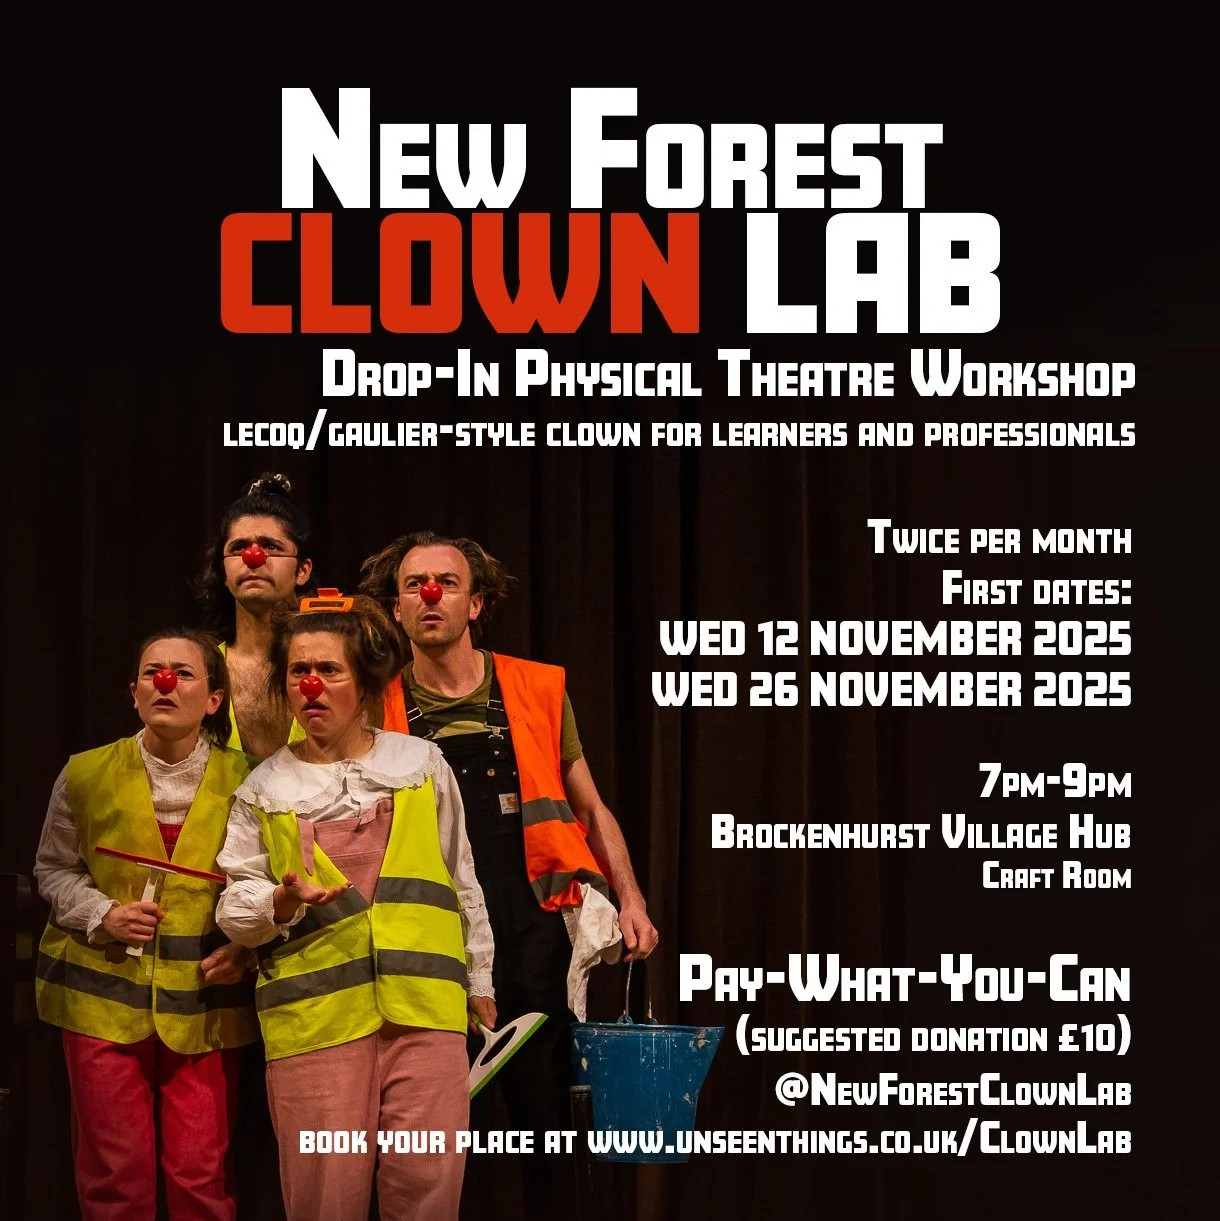
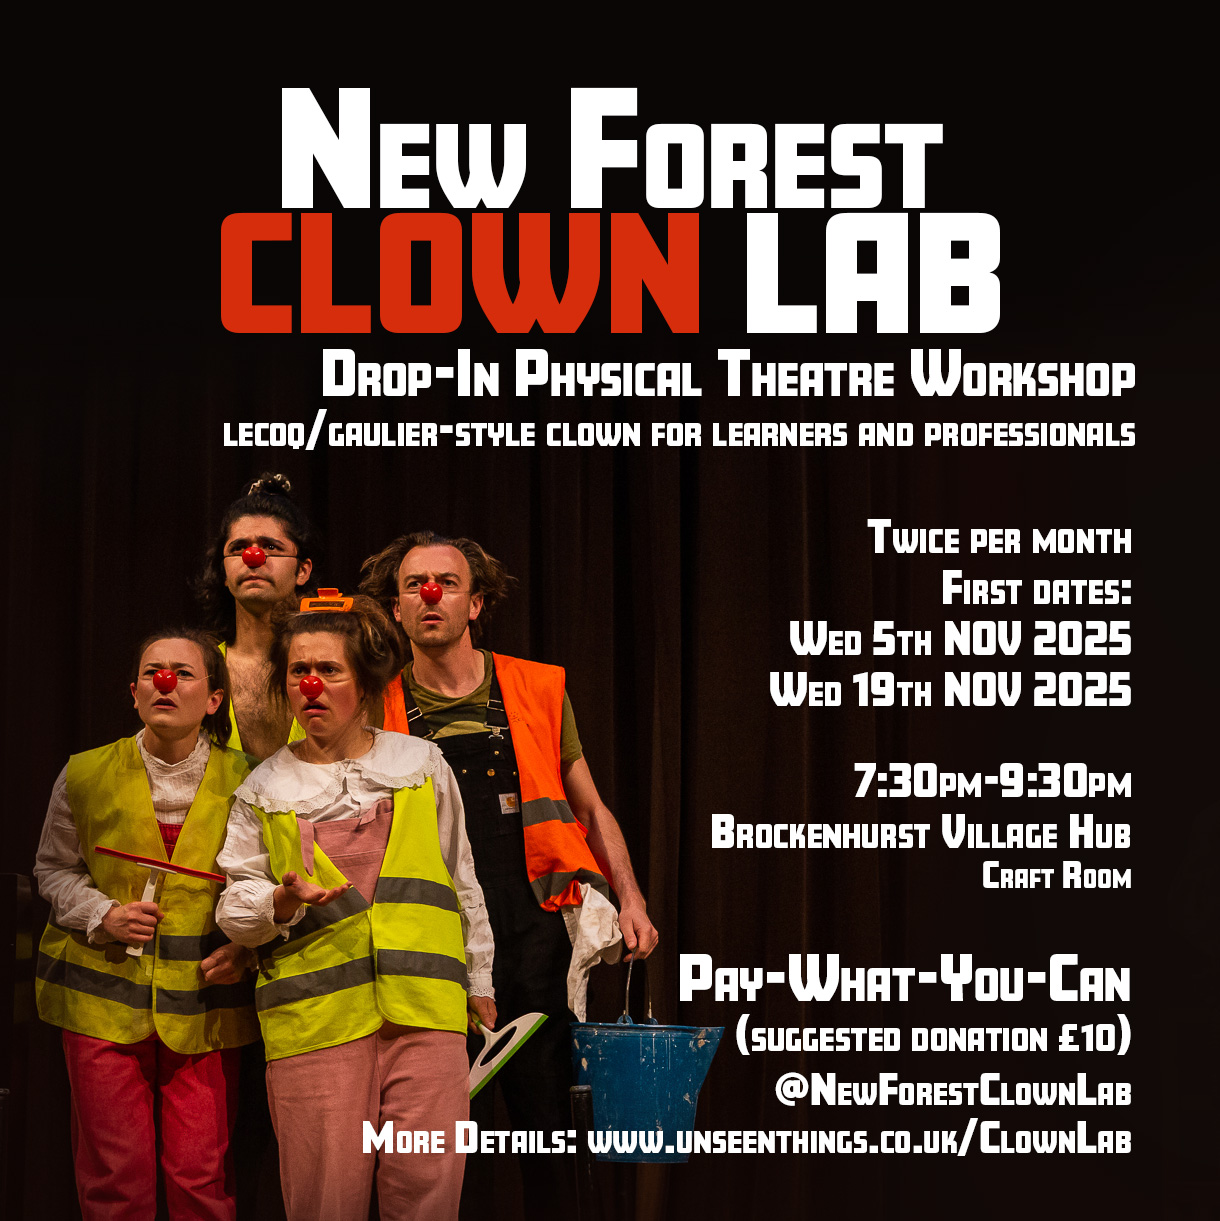
Update layout and content with images and styles

diff --git a/_site/clownlab/index.html b/_site/clownlab/index.html
@@ -55,8 +55,50 @@
     <main>
       
 <h1>New Forest Clown Lab</h1>
-<p>Starting in November 2025, I will be leading an explorative Clown workshop using exercises in the tradition of Lecoq and Gaullier for both beginners and professionals in Brockenhurst in the New Forest. It's a drop in class, pay-what-you-can, held every two weeks. Just come along and see what you think!</p>
 
+<p><strong>Starting in November 2025</strong>, I’ll be leading a fortnightly Clown workshop in Brockenhurst, New Forest, open to both beginners and professionals. These are drop-in classes rooted in the traditions of Lecoq and Gaulier.  It can be exhilirating, it can be stupid, it can be frightening, but regardless of your background and experience it will be fun and useful.</p>
+
+<p><strong>It’s pay-what-you-can</strong> (suggested donation £10), held every two weeks at the Brockenhurst Village Hub  — a five-minute walk from the station, with easy trains from Bournemouth and Southampton, and plenty of parking.</p>
+
+<h3>What to Expect</h3>
+
+<p>Whether you’re brand new to this style or a world famous superstar clown, these workshops are a place to hone your instincts, refine your timing, and find what works on stage.</p>
+
+<p>We’ll explore games and exercises, some all together, some in smaller groups or solo. We'll be moving around a lot so wear clothes you can move in. Red noses are sometimes required, sometimes not - I'll provide some, but feel free to bring your own.</p>
+
+<h2>Who's Leading It?</h2>
+
+<p>The sessions are led by me, James Carney, a Lecoq-trained performer and theatre-maker with years of experience in clown, mask, and physical theatre.</p>
+
+<h2>Location</h2>
+
+<p><strong>Brockenhurst Village Hub (Craft Room)</strong></p>
+<p>Highwood Road, Brockenhurst, Hampshire, SO42 7RY</p>
+
+<div style="margin-bottom: 2em">
+  <iframe 
+    src="https://www.google.com/maps/embed?pb=!1m18!1m12!1m3!1d2572.3496202895823!2d-1.5738622!3d50.8214207!2m3!1f0!2f0!3f0!3m2!1i1024!2i768!4f13.1!3m3!1m2!1s0x4873e9f2ac1d5fcd%3A0xd9053ae3aa00b3f6!2sBrockenhurst%20Village%20Hall!5e0!3m2!1sen!2suk!4v1695993082135!5m2!1sen!2suk" 
+    width="100%" 
+    height="300" 
+    style="border:0;" 
+    allowfullscreen="" 
+    loading="lazy" 
+    referrerpolicy="no-referrer-when-downgrade">
+  </iframe>
+</div>
+
+<h2>Upcoming Dates</h2>
+
+<ul>
+  <li>Wednesday 5th November 2025 – 7:30pm–9:30pm</li>
+  <li>Wednesday 19th November 2025 – 7:30pm–9:30pm</li>
+  <li>Wednesday 3th December 2025 – 7:30pm–9:30pm</li>
+  <li>Wednesday 17th December 2025 – 7:30pm–9:30pm</li>
+</ul>
+
+<h2>How to Join</h2>
+
+<p>No need to book—just turn up. If you'd like to get in touch or ask a question, message <a href="https://instagram.com/NewForestClownLab" target="_blank">@NewForestClownLab on Instagram</a> or <a href="mailto:youremail@example.com">drop me an email</a>.</p>
 <img src="/images/Nov2025Flyer.jpg" alt="Flyer" class="project-bigimage">
 
     </main>

diff --git a/_site/css/styles.css b/_site/css/styles.css
@@ -13,6 +13,11 @@ body {
   padding: 0;
 }
 
+body.clownlab {
+  font-family: "Amboy", sans-serif;  /* assuming Amboy is loaded via Typekit or similar */
+}
+
+
 .content-wrapper {
   max-width: 800px;
   margin: 0 auto;
@@ -473,5 +478,30 @@ h3 {
 
 .simple-card p {
   font-size: 0.95rem;
+}
+
+/* Links inside body text */
+.content-wrapper a {
+  color: #dab400;          /* mustard yellow (or another accent) */
+  text-decoration: underline;
+  font-weight: 500;
+}
+
+.content-wrapper a:hover {
+  color: #fff;             /* or lighten to make hover obvious */
+  text-decoration: none;
+}
+
+.clownlab ul {
+  list-style: none;
+  padding: 0;
+}
+
+.clownlab ul li {
+  background: #111;
+  margin: 0.5em 0;
+  padding: 0.6em 1em;
+  border-left: 4px solid #dab400;
+  border-radius: 4px;
 }
 

diff --git a/css/styles.css b/css/styles.css
@@ -13,6 +13,11 @@ body {
   padding: 0;
 }
 
+body.clownlab {
+  font-family: "Amboy", sans-serif;  /* assuming Amboy is loaded via Typekit or similar */
+}
+
+
 .content-wrapper {
   max-width: 800px;
   margin: 0 auto;
@@ -473,5 +478,30 @@ h3 {
 
 .simple-card p {
   font-size: 0.95rem;
+}
+
+/* Links inside body text */
+.content-wrapper a {
+  color: #dab400;          /* mustard yellow (or another accent) */
+  text-decoration: underline;
+  font-weight: 500;
+}
+
+.content-wrapper a:hover {
+  color: #fff;             /* or lighten to make hover obvious */
+  text-decoration: none;
+}
+
+.clownlab ul {
+  list-style: none;
+  padding: 0;
+}
+
+.clownlab ul li {
+  background: #111;
+  margin: 0.5em 0;
+  padding: 0.6em 1em;
+  border-left: 4px solid #dab400;
+  border-radius: 4px;
 }
 

diff --git a/_site/projects/index.html b/_site/projects/index.html
@@ -73,7 +73,7 @@
 
   <div class="simple-card">
     <h2>New Forest Clown Lab</h2>
-    <p>A Lecoq-inspired training space for physical theatre and clown, rooted in the New Forest.</p>
+    <p>Weekly drop-in explorative workshop for Clown in the middle of the New Forest.</p>
     <a class="button" href="/clownlab">Discover Clown Lab</a>
   </div>
 
@@ -91,8 +91,8 @@
 
   <div class="simple-card">
     <h2>The Unseen Hour</h2>
-    <p>A darkly comic cult podcast blending horror, satire, and the absurd.</p>
-    <a class="button" href="/unseenhour">Coming Soon</a>
+    <p>An absurd horror-comedy audiodrama. Available wherever you get podcasts.</p>
+    <a class="button" href="https://unseenhour.com/listen">Archive Here</a>
   </div>
 
 </section>

diff --git a/_site/punchandjudy/index.html b/_site/punchandjudy/index.html
@@ -55,7 +55,8 @@
     <main>
       
 <h1>Punch & Judy</h1>
-<p>You want a Punch & Judy Show? I can help!</p>
+<p>Professor James Carney performs Punch &amp; Judy with hand carved puppets in a booth made from coppiced hazel. The show is silly, funny and brutal, and the kids love it. If you would like to enquire about bookings <a href="mailto:james@falsefaces.co.uk">email me</a>.</p>
+.</p>
 
     </main>
 </div>

diff --git a/_site/carney/index.html b/_site/carney/index.html
@@ -66,7 +66,7 @@
   <div class="project-card">
     <h2>Actor</h2>
     <p>Performer across film, theatre, audio, puppetry etc.</p>
-    <a class="button" href="/falsefaces">CV, contact and work</a>
+    <a class="button" href="https://app.spotlight.com/0855-1270-9729">Spotlight Link</a>
   </div>
 
  
